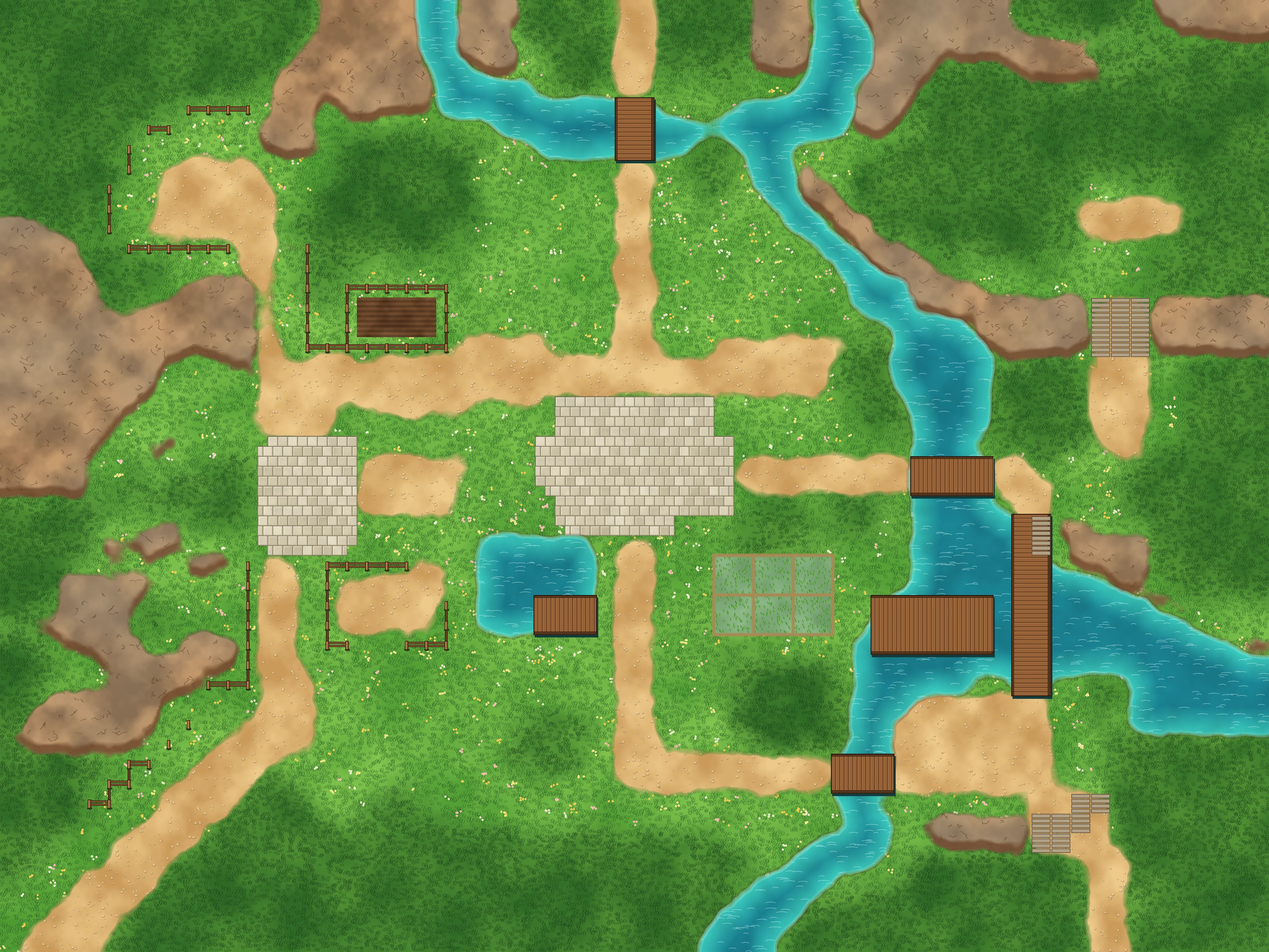
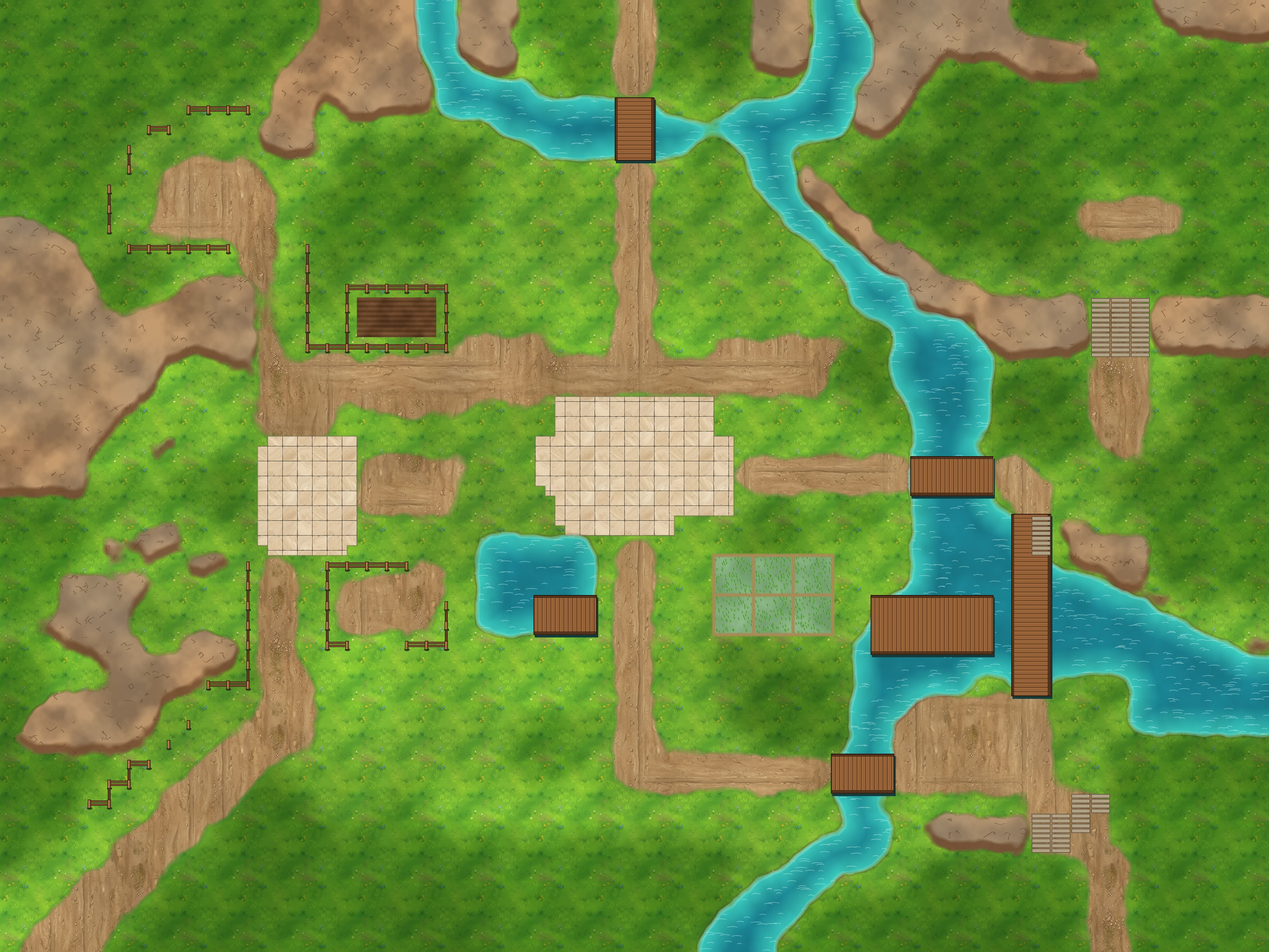
Village ground uses the owner's grass, dirt and plaza textures
Ruts in the dirt texture follow the road (turned for east-west roads), the
grass gets large soft light/shade patches so the repeat does not show, and
plaza slabs are 3/4 of a tile.

Claude-Session: https://claude.ai/code/session_01LmgoJifLrwNapLvBHfZunw

diff --git a/tools/village/build_ground.py b/tools/village/build_ground.py
@@ -4,7 +4,7 @@ Offline art tool, not part of the npm build. Needs numpy, scipy and pillow:
     python tools/village/build_ground.py            # writes src/assets/village/ground.webp
 
 The grid (src/core/homeLayout.ts) says what each 16px tile is; this turns it into soft,
-hand-painted-looking ground: grass with tufts, dirt roads with ragged edges, a slab plaza,
+hand-painted ground from the owner's textures (tools/village/textures): grass, dirt roads with ragged edges, a slab plaza,
 water with depth and shore foam, rocky plateaus with a cliff lip, tilled soil and a paddy.
 Buildings, trees, fences and bridges are separate sprites placed by the game on top.
 Deterministic: the same grid always gives the same picture.
@@ -93,6 +93,18 @@ def blend(base, layer, m):
     return base * (1 - m[..., None]) + layer * m[..., None]
 
 
+TEX_DIR = os.path.join(os.path.dirname(__file__), 'textures')
+
+
+def tiled(name, size, rot=False):
+    """An owner-made seamless texture (tools/village/textures) repeated over the map, `size` px per repeat."""
+    im = Image.open(os.path.join(TEX_DIR, f'ground-{name}.png')).convert('RGB')
+    if rot:
+        im = im.transpose(Image.Transpose.ROTATE_90)
+    t = np.asarray(im.resize((size, size), Image.LANCZOS)).astype(np.float32)
+    return np.tile(t, (H // size + 1, W // size + 1, 1))[:H, :W]
+
+
 # ------------------------------------------------------------------ masks
 is_water = lambda x, y, c: c in 'WO' or (c == '=' and near(x, y, 'WO'))
 m_water = soft_mask(tile_mask(is_water), wobble=0.18, seed=11, sharp=2)
@@ -112,10 +124,15 @@ m_plaza = ndimage.gaussian_filter(m_plaza, 1.0)
 
 # ------------------------------------------------------------------ textures
 print('textures...', file=sys.stderr)
-grass = colour_field('#4e9a33', '#7fc24c', T * 3, 21, 1.2)
-grass = blend(grass, colour_field('#5fae3c', '#97d35e', T * 0.8, 22), noise(T * 6, 2, 23) * 0.35)
-forest = colour_field('#2f6a26', '#4f8d33', T * 2, 24, 1.1)
-dirt = colour_field('#c9995a', '#ecc98a', T * 1.5, 25, 1.1)
+# grass: the owner's texture, with large soft light/shade patches so the repeat does not show
+grass = tiled('grass', 384)
+grass = grass * (0.86 + 0.24 * noise(T * 5, 3, 21))[..., None]
+forest = grass * np.array([0.62, 0.72, 0.6], np.float32)
+# dirt: the owner's road texture; its wheel ruts run along the road (turned for east-west roads)
+horiz = tile_mask(lambda x, y, c: c == ':' and (ROWS[y][max(0, x - 1)] == ':') + (ROWS[y][min(MW - 1, x + 1)] == ':') > (ROWS[max(0, y - 1)][x] == ':') + (ROWS[min(MH - 1, y + 1)][x] == ':'))
+horiz = ndimage.gaussian_filter(np.asarray(Image.fromarray(horiz, 'F').resize((W, H), Image.BILINEAR)), T * 0.6)
+dirt = blend(tiled('dirt', 448), tiled('dirt', 448, rot=True), np.clip(horiz * 2 - 0.5, 0, 1))
+dirt = dirt * (0.92 + 0.12 * noise(T * 3, 2, 25))[..., None]
 rock = colour_field('#8c6a4a', '#c79a6c', T * 1.2, 26, 1.3)
 rock = blend(rock, colour_field('#7d7a6a', '#a8a290', T * 2, 27), noise(T * 4, 2, 28) * 0.5)
 soil = colour_field('#5a3a22', '#7a5232', T * 0.6, 29)
@@ -124,40 +141,7 @@ paddy = colour_field('#6f9a6a', '#8fb98a', T * 1.0, 30)
 img = forest.copy()
 img = blend(img, grass, 1 - m_forest)
 
-# grass tufts and flowers (drawn on an RGBA layer, then composited)
-layer = Image.new('RGBA', (W, H), (0, 0, 0, 0))
-d = ImageDraw.Draw(layer)
-for _ in range(90000):
-    x, y = int(rng.integers(0, W)), int(rng.integers(0, H))
-    f = m_forest[y, x]
-    dark = (40, 96, 34, 150) if f < 0.5 else (28, 70, 26, 160)
-    lite = (150, 214, 96, 150) if f < 0.5 else (96, 150, 64, 140)
-    h = int(rng.integers(6, 13))
-    for k in (-1, 0, 1):
-        d.line([(x + k * 3, y), (x + k * 5, y - h + abs(k) * 2)], fill=dark, width=2)
-    d.line([(x - 1, y - 1), (x + 1, y - h + 2)], fill=lite, width=1)
-for _ in range(2500):
-    x, y = int(rng.integers(0, W)), int(rng.integers(0, H))
-    if m_forest[y, x] > 0.3:
-        continue
-    col = [(255, 240, 160), (255, 190, 210), (250, 250, 250), (255, 210, 90)][int(rng.integers(0, 4))]
-    for k in range(int(rng.integers(2, 5))):
-        cx, cy = x + int(rng.integers(-10, 10)), y + int(rng.integers(-8, 8))
-        d.ellipse([cx - 3, cy - 3, cx + 3, cy + 3], fill=col + (255,))
-        d.ellipse([cx - 1, cy - 1, cx + 1, cy + 1], fill=(240, 170, 40, 255))
-tuft = np.asarray(layer).astype(np.float32)
-img = blend(img, tuft[..., :3], tuft[..., 3] / 255)
-
 # dirt road: pebbles, dark border on the grass side, grass blades hanging over
-pebbles = Image.new('RGBA', (W, H), (0, 0, 0, 0))
-d = ImageDraw.Draw(pebbles)
-for _ in range(14000):
-    x, y = int(rng.integers(0, W)), int(rng.integers(0, H))
-    r = int(rng.integers(2, 6))
-    d.ellipse([x - r, y - r * 0.7, x + r, y + r * 0.7], fill=(150, 112, 70, 200))
-    d.ellipse([x - r + 1, y - r * 0.7, x + r - 2, y + r * 0.3], fill=(236, 214, 170, 200))
-pb = np.asarray(pebbles).astype(np.float32)
-dirt = blend(dirt, pb[..., :3], pb[..., 3] / 255 * 0.8)
 ring = np.clip(ndimage.maximum_filter(m_dirt, size=7) - m_dirt, 0, 1)
 img = blend(img, dirt, m_dirt)
 img = blend(img, np.broadcast_to(hexc('#3f7a2c'), img.shape), ring * 0.85)
@@ -210,21 +194,8 @@ img = blend(img, rock, m_rock)
 img = blend(img, np.broadcast_to(hexc('#6a4428'), img.shape), face * 0.75)
 img = blend(img, np.broadcast_to(hexc('#3a2414'), img.shape), np.clip(ndimage.maximum_filter(m_rock, 5) - m_rock, 0, 1) * 0.7)
 
-# plaza slabs
-sy, sx = np.mgrid[0:H, 0:W]
-slab_id = (sy // SL) * 1000 + ((sx + (sy // SL % 2) * SL // 2) // SL)
-vals = np.random.default_rng(5).random(slab_id.max() + 1).astype(np.float32)
-v = vals[slab_id]
-plaza = mix(hexc('#c9bfa2')[None, None], hexc('#e6dec6')[None, None], v)
-plaza = plaza * (0.94 + 0.08 * noise(T * 0.5, 2, 31))[..., None]
-lx = (sx + (sy // SL % 2) * SL // 2) % SL
-ly = sy % SL
-grout = ((lx < 2) | (ly < 2)).astype(np.float32)
-hi_ = ((lx >= 2) & (lx < 5) | (ly >= 2) & (ly < 5)).astype(np.float32)
-lo_ = ((lx > SL - 4) | (ly > SL - 4)).astype(np.float32)
-plaza = blend(plaza, np.broadcast_to(hexc('#f4eedc'), plaza.shape), hi_ * 0.5)
-plaza = blend(plaza, np.broadcast_to(hexc('#a89c7c'), plaza.shape), lo_ * 0.5)
-plaza = blend(plaza, np.broadcast_to(hexc('#857a5e'), plaza.shape), grout)
+# plaza: the owner's slab texture (8 slabs per repeat, 3/4 tile each)
+plaza = tiled('plaza', SL * 12)
 img = blend(img, plaza, m_plaza)
 img = blend(img, np.broadcast_to(hexc('#6e664e'), img.shape), np.clip(ndimage.maximum_filter(m_plaza, 5) - m_plaza, 0, 1) * 0.8)
 
